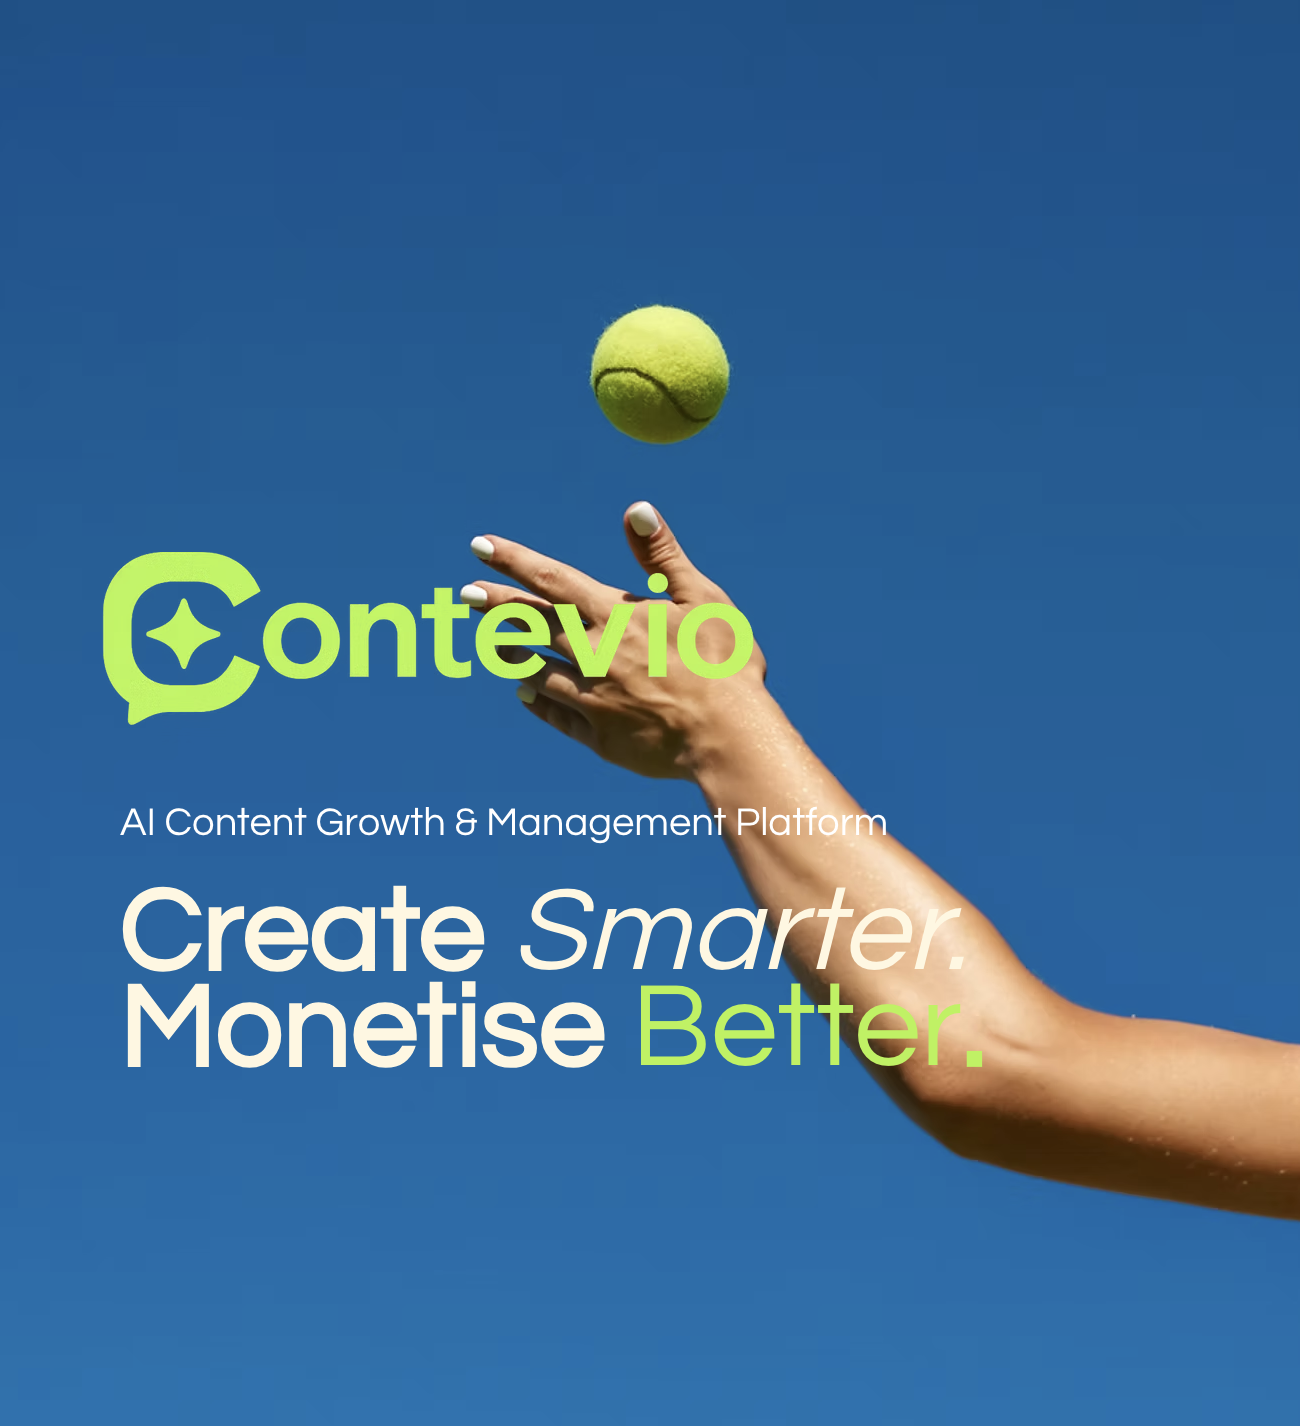
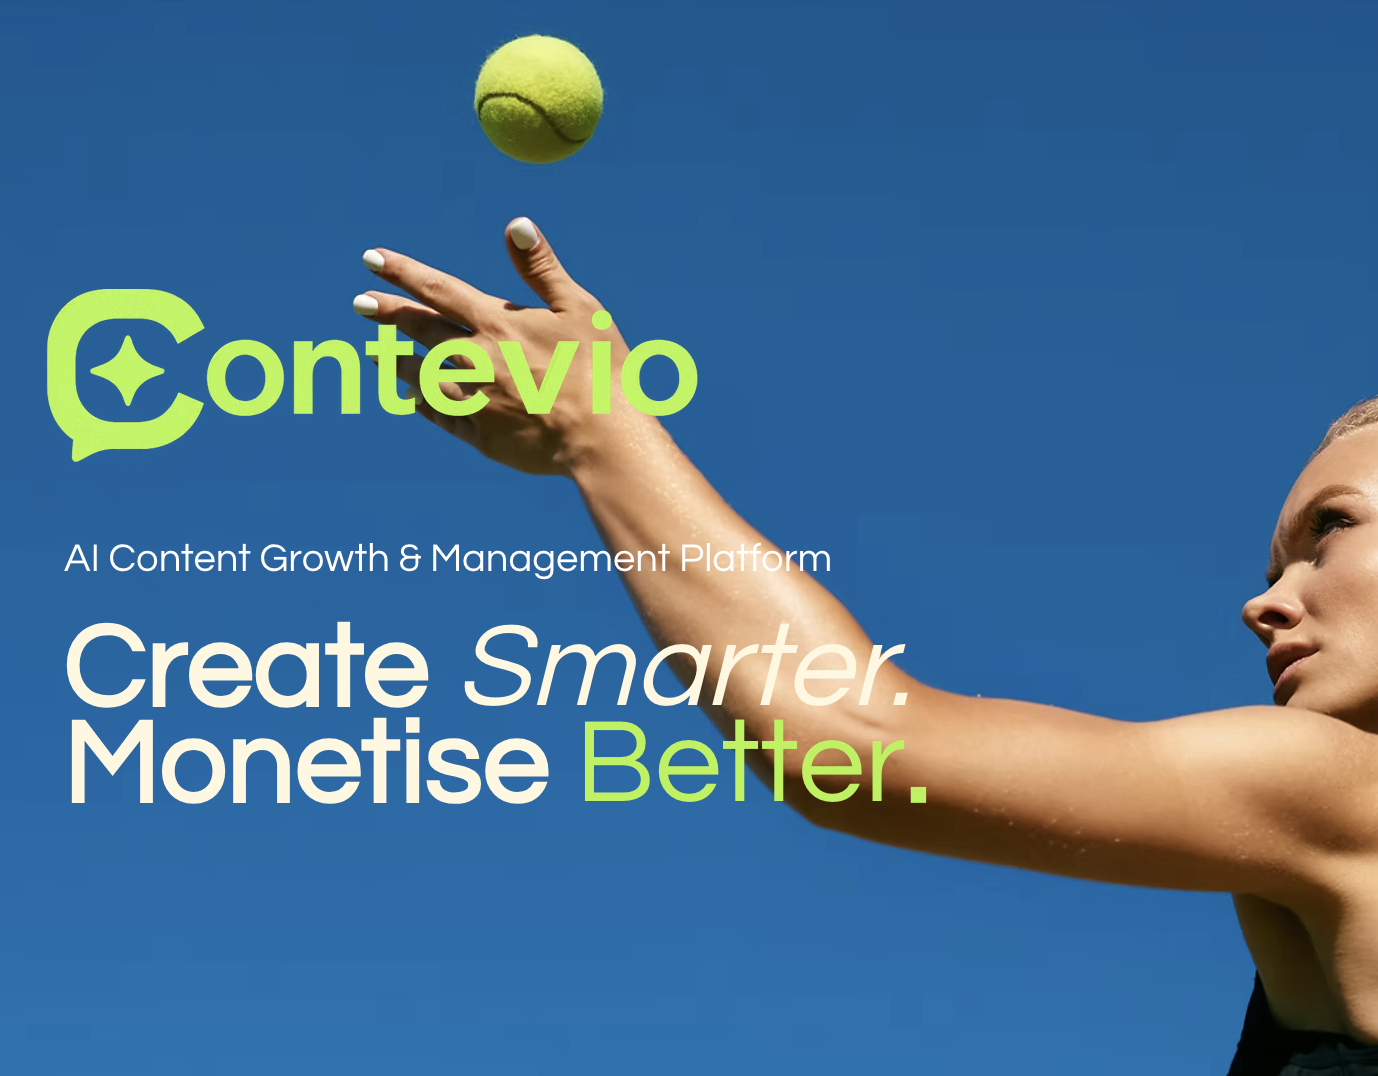
minor fixes

Changed region(s): [[0.0308, 0.184, 1.0, 1.0], [0.3385, 0.0307, 0.4615, 0.1533]]

diff --git a/src/Signup.jsx b/src/Signup.jsx
@@ -112,8 +112,8 @@ const Signup = () => {
 
   return (
     <div className='grid grid-cols-2 h-screen max-md:grid-cols-1'>
-        <div className='flex-1 flex flex-col rounded-r-[50px] LogIn max-md:hidden overflow-hidden'>
-            <img src={logIn} alt='logIn' className=' h-full cover'/>
+        <div className='flex-1 flex flex-col rounded-r-[50px] max-md:hidden overflow-hidden'>
+            <img src={logIn} alt='logIn' className=' h-full object-cover object-left-top '/>
         </div>
         <div className='flex flex-col flex-1 overflow-y-auto max-md:py-5'>
             <div className='flex flex-col justify-center align-middle w-[50%] max-md:w-[90%] m-auto'>
